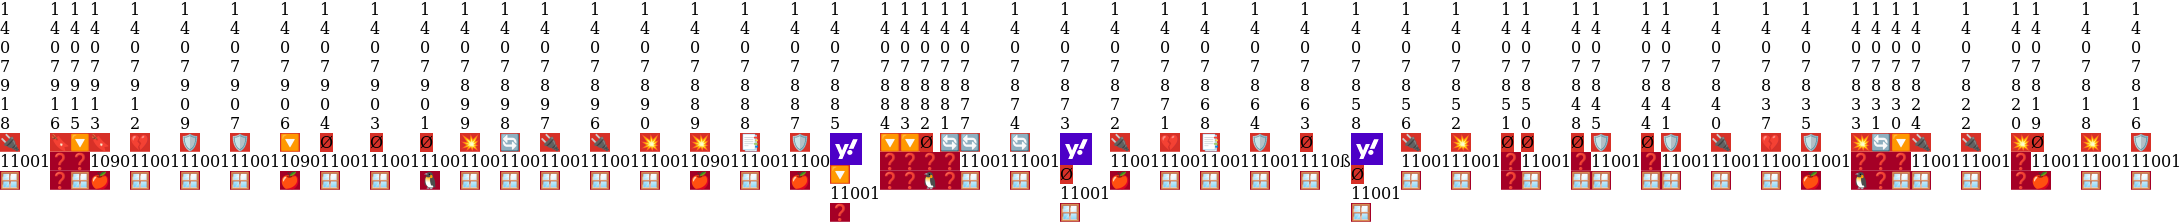
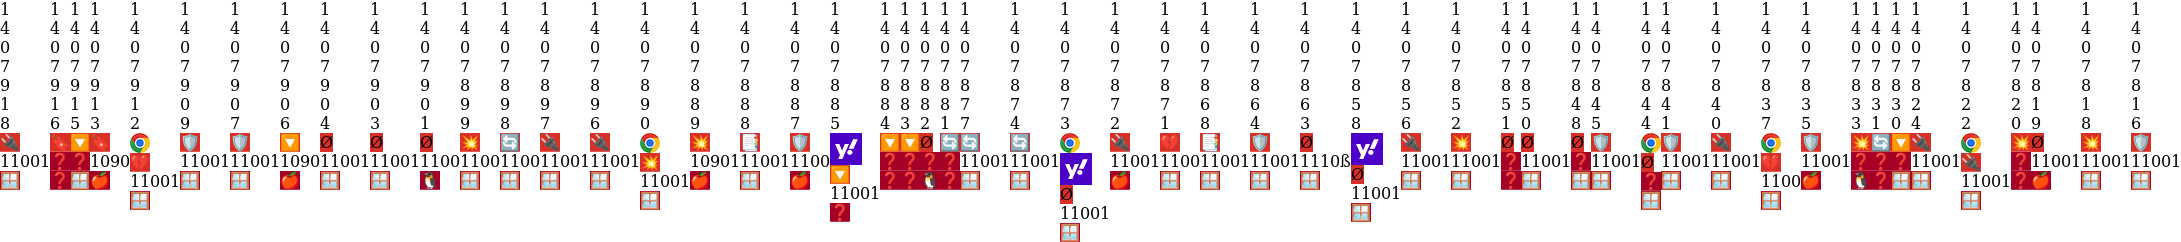
add chrome

diff --git a/createDailyFirefoxEmojiBarcode.rb b/createDailyFirefoxEmojiBarcode.rb
@@ -39,6 +39,7 @@ LINUX_EMOJI = "#{EMOJI_FILEPATH}x1f427-PENGUIN-a50026.png"
 UNKNOWN_EMOJI = "#{EMOJI_FILEPATH}x2753-BLACK-QUESTION-MARK-ORNAMENT-a50026.png"
 KASPERSKY_EMOJI = "#{EMOJI_FILEPATH}kaspersky-20x20.png"
 YAHOO_EMOJI = "#{EMOJI_FILEPATH}yahoo.png"
+CHROME_EMOJI = "#{EMOJI_FILEPATH}chrome.png"
 
 def get_os_emoji_filename(tags)
   case tags
@@ -211,6 +212,7 @@ questions.each do |q|
   content = "#{q['title']} #{Nokogiri::HTML(q['content']).text}".downcase
   append_image(KASPERSKY_EMOJI, question_file, VERTICAL) if content.include?('kaspersky')
   append_image(YAHOO_EMOJI, question_file, VERTICAL) if content.include?('yahoo')
+  append_image(CHROME_EMOJI, question_file, VERTICAL) if content.include?('chrome')
 
   # Add id image
   create_digit_image(id)
